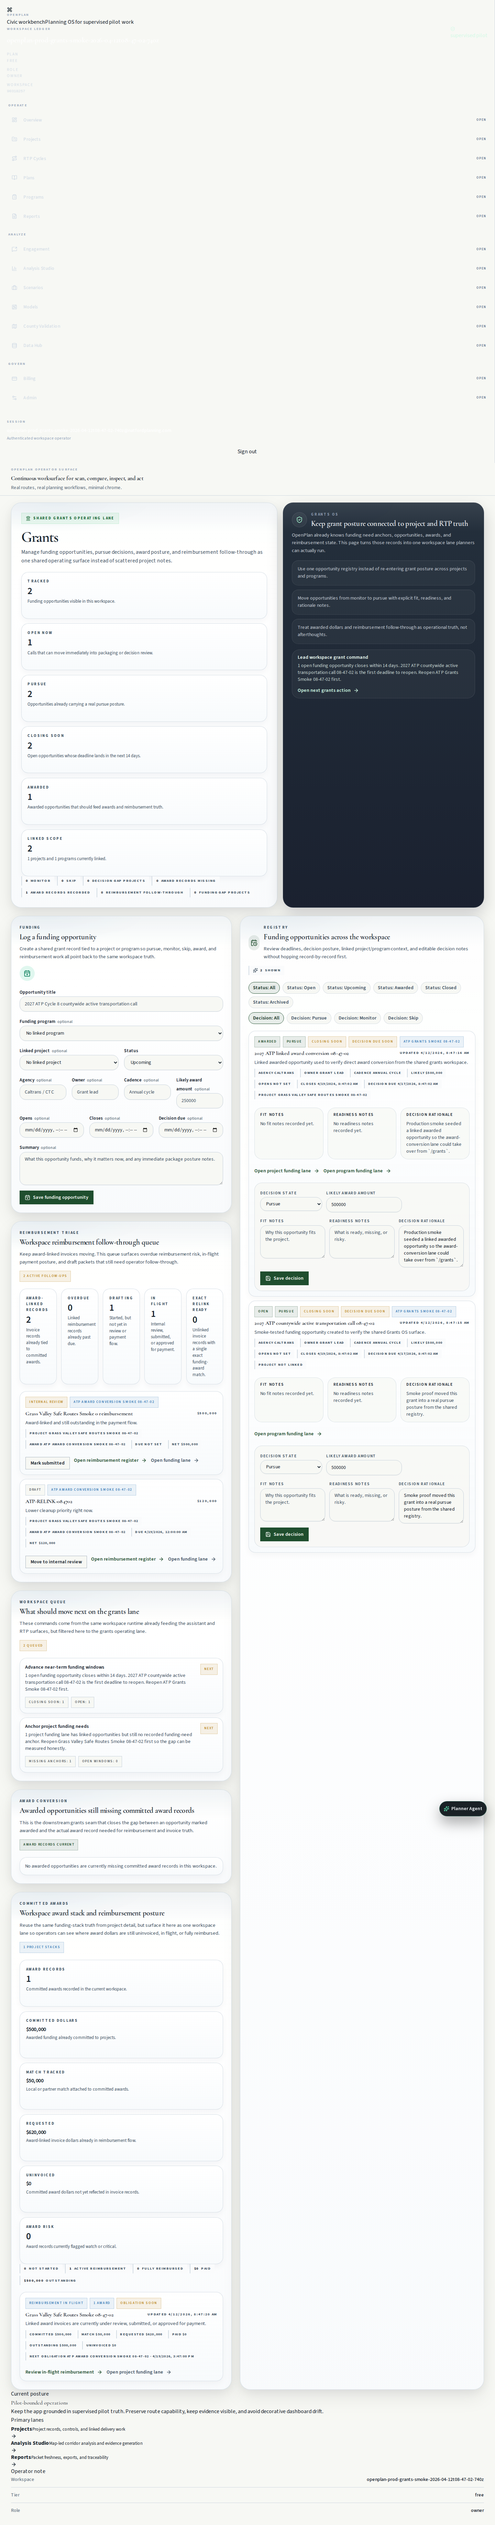
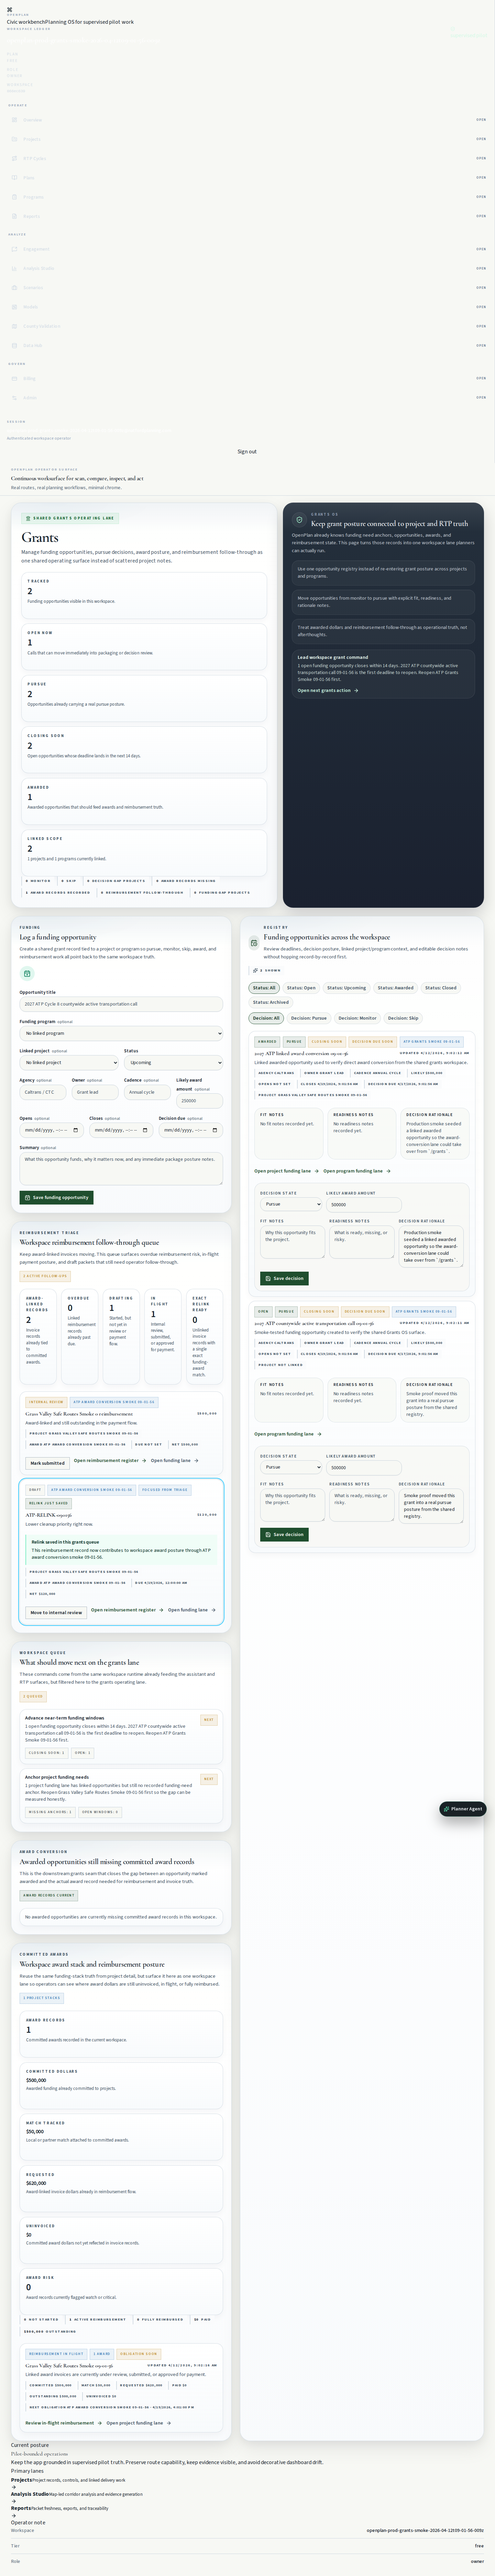
test: prove grants relink confirmation on production

diff --git a/qa-harness/openplan-prod-grants-registry-smoke.js b/qa-harness/openplan-prod-grants-registry-smoke.js
@@ -311,7 +311,11 @@ async function main() {
     await refreshedQueueSection.getByText(unlinkedInvoiceNumber, { exact: false }).waitFor({ timeout: 30000 });
     const exactRelinkRow = refreshedQueueSection.locator('.module-record-row').filter({ has: page.getByRole('heading', { name: unlinkedInvoiceNumber, exact: false }) }).first();
     await exactRelinkRow.getByText(/Exact relink ready/i).waitFor({ timeout: 30000 });
-    await exactRelinkRow.getByRole('button', { name: /Save exact funding link/i }).click();
+    const useExactMatchButton = exactRelinkRow.getByRole('button', { name: /Use exact match/i });
+    if (await useExactMatchButton.isVisible().catch(() => false)) {
+      await useExactMatchButton.click();
+    }
+    await exactRelinkRow.getByRole('button', { name: /Save exact funding link|Save funding link/i }).click();
     await page.waitForTimeout(2000);
     if (!page.url().includes(`relinkedInvoiceId=${ids.unlinkedInvoiceId}`)) {
       throw new Error(`Exact relink did not update the grants URL as expected: ${page.url()}`);

diff --git a/docs/ops/2026-04-12-openplan-production-grants-registry-smoke.md b/docs/ops/2026-04-12-openplan-production-grants-registry-smoke.md
@@ -1,21 +1,21 @@
 # OpenPlan Production Grants Registry Smoke — 2026-04-12
 
 - Base URL: https://openplan-natford.vercel.app
-- QA user email: openplan-prod-grants-smoke-2026-04-12T08-47-02-740Z@natfordplanning.com
+- QA user email: openplan-prod-grants-smoke-2026-04-12T09-01-56-009Z@natfordplanning.com
 - QA user id: unknown
-- Workspace id: 90318257-e556-407f-a037-094778854cb0
-- Bootstrapped workspace id: d3605ea7-3439-410f-9a10-8ed5aa4e9cc7
-- Project id: cd95fe50-b831-4f8f-9813-3ed973a428a2
-- Program id: 39759a37-0da5-4a19-8146-e03944f3b015
-- Opportunity id: 516fcf4d-50b4-44d8-9791-3fb4b138b6df
+- Workspace id: 866ec639-04f4-416d-bb75-03d358767bc1
+- Bootstrapped workspace id: 2d2c220f-539e-4682-b62a-7225b08a4862
+- Project id: f4a26b9f-3558-43a4-a616-1fa93d67ad78
+- Program id: 4e4086bf-80fb-4c09-bda4-187d602a58fb
+- Opportunity id: e36af4e9-2ff9-4edf-a08d-f4171d5a38be
 
 ## Pass/Fail Notes
-- PASS: Created QA auth user openplan-prod-grants-smoke-2026-04-12T08-47-02-740Z@natfordplanning.com.
+- PASS: Created QA auth user openplan-prod-grants-smoke-2026-04-12T09-01-56-009Z@natfordplanning.com.
 - PASS: Signed into production successfully.
-- PASS: Bootstrapped workspace OpenPlan Prod Grants Smoke 08-47-02.
-- PASS: Current workspace resolved to 90318257-e556-407f-a037-094778854cb0 instead of the freshly bootstrapped workspace d3605ea7-3439-410f-9a10-8ed5aa4e9cc7; smoke data was aligned to the active workspace selection.
-- PASS: Seeded linked project Grass Valley Safe Routes Smoke 08-47-02 inside the smoke workspace.
-- PASS: Created production program ATP Grants Smoke 08-47-02.
+- PASS: Bootstrapped workspace OpenPlan Prod Grants Smoke 09-01-56.
+- PASS: Current workspace resolved to 866ec639-04f4-416d-bb75-03d358767bc1 instead of the freshly bootstrapped workspace 2d2c220f-539e-4682-b62a-7225b08a4862; smoke data was aligned to the active workspace selection.
+- PASS: Seeded linked project Grass Valley Safe Routes Smoke 09-01-56 inside the smoke workspace.
+- PASS: Created production program ATP Grants Smoke 09-01-56.
 - PASS: Grants registry rendered its empty state before the first opportunity was created.
 - PASS: Created the first funding opportunity and confirmed the rendered grants surface picked it up with near-term queue pressure.
 - PASS: Updated the opportunity decision to pursue directly from the grants registry row controls.
@@ -24,7 +24,7 @@
 - PASS: The workspace award stack surfaced the linked project with reimbursement posture immediately after the award was recorded.
 - PASS: Created the first award-linked reimbursement invoice directly from `/grants`, advanced the stack into drafting posture, and surfaced it in the workspace reimbursement queue.
 - PASS: Advanced the reimbursement queue item in place from draft to internal review directly from `/grants`.
-- PASS: Repaired an exact award relink directly from the shared grants queue without leaving `/grants`.
+- PASS: Repaired an exact award relink directly from the shared grants queue without leaving `/grants`, and the queue now confirms the saved relink state inline.
 - PASS: The grants reimbursement action landed directly on the project billing register anchor after direct invoice creation.
 - PASS: The grants registry linked back into the canonical program funding lane.
 
@@ -36,4 +36,4 @@
 - 2026-04-12-prod-grants-registry-05-program-detail.png
 
 ## Verdict
-- PASS: Production rendered smoke confirms the shared `/grants` workspace surface can create a funding opportunity, surface grants queue pressure, promote an opportunity into awarded status, create the committed funding award from the award-conversion lane, start the first reimbursement invoice directly from the shared grants surface, advance that reimbursement queue item in place, repair an exact award relink from the shared queue, land on the exact project billing register, and still link back into the canonical program funding lane.
+- PASS: Production rendered smoke confirms the shared `/grants` workspace surface can create a funding opportunity, surface grants queue pressure, promote an opportunity into awarded status, create the committed funding award from the award-conversion lane, start the first reimbursement invoice directly from the shared grants surface, advance that reimbursement queue item in place, repair an exact award relink from the shared queue with inline confirmation, land on the exact project billing register, and still link back into the canonical program funding lane.

diff --git a/docs/ops/2026-04-12-openplan-production-qa-cleanup.md b/docs/ops/2026-04-12-openplan-production-qa-cleanup.md
@@ -1,6 +1,6 @@
 # OpenPlan Production QA Cleanup — 2026-04-12
 
-- Started: 2026-04-12T08:47:55.857Z
+- Started: 2026-04-12T09:02:46.298Z
 - Mode: apply
 - Env path: /home/narford/.openclaw/workspace/openplan/openplan/.env.local
 - Created-after filter: 2026-04-12
@@ -8,42 +8,34 @@
 
 ## Scope
 - Targeted QA/debug/proof/trace/canary production records created on or after 2026-04-12.
-- Targeted workspaces: 12
+- Targeted workspaces: 4
 - Targeted county runs: 0
-- Targeted auth users: 6
+- Targeted auth users: 2
 
 ## Stripe checkout sessions
 - No Stripe checkout sessions found for targeted workspaces.
 
 ## Delete plan
-- programs: planned=6
-- billing_events: planned=12
-- projects: planned=6
-- workspace_members: planned=12
-- workspaces: planned=12
+- programs: planned=2
+- billing_events: planned=4
+- projects: planned=2
+- workspace_members: planned=4
+- workspaces: planned=4
 
 ## Auth plan
-- openplan-prod-grants-smoke-2026-04-12t08-47-02-740z@natfordplanning.com
-- openplan-prod-grants-smoke-2026-04-12t08-46-08-604z@natfordplanning.com
-- openplan-prod-grants-smoke-2026-04-12t08-45-12-608z@natfordplanning.com
-- openplan-prod-grants-smoke-2026-04-12t08-43-53-213z@natfordplanning.com
-- openplan-prod-grants-smoke-2026-04-12t08-42-42-027z@natfordplanning.com
-- openplan-prod-grants-smoke-2026-04-12t08-40-52-786z@natfordplanning.com
+- openplan-prod-grants-smoke-2026-04-12t09-01-56-009z@natfordplanning.com
+- openplan-prod-grants-smoke-2026-04-12t09-00-20-813z@natfordplanning.com
 
 ## Delete results
-- programs: status=200 ok=true planned=6 deleted=6
-- billing_events: status=200 ok=true planned=12 deleted=0
-- projects: status=200 ok=true planned=6 deleted=6
-- workspace_members: status=200 ok=true planned=12 deleted=12
-- workspaces: status=200 ok=true planned=12 deleted=12
+- programs: status=200 ok=true planned=2 deleted=2
+- billing_events: status=200 ok=true planned=4 deleted=0
+- projects: status=200 ok=true planned=2 deleted=2
+- workspace_members: status=200 ok=true planned=4 deleted=4
+- workspaces: status=200 ok=true planned=4 deleted=4
 
 ## Auth deletes
-- openplan-prod-grants-smoke-2026-04-12t08-47-02-740z@natfordplanning.com: status=200 ok=true
-- openplan-prod-grants-smoke-2026-04-12t08-46-08-604z@natfordplanning.com: status=200 ok=true
-- openplan-prod-grants-smoke-2026-04-12t08-45-12-608z@natfordplanning.com: status=200 ok=true
-- openplan-prod-grants-smoke-2026-04-12t08-43-53-213z@natfordplanning.com: status=200 ok=true
-- openplan-prod-grants-smoke-2026-04-12t08-42-42-027z@natfordplanning.com: status=200 ok=true
-- openplan-prod-grants-smoke-2026-04-12t08-40-52-786z@natfordplanning.com: status=200 ok=true
+- openplan-prod-grants-smoke-2026-04-12t09-01-56-009z@natfordplanning.com: status=200 ok=true
+- openplan-prod-grants-smoke-2026-04-12t09-00-20-813z@natfordplanning.com: status=200 ok=true
 
 ## Verification
 - Remaining matching workspaces: 0
